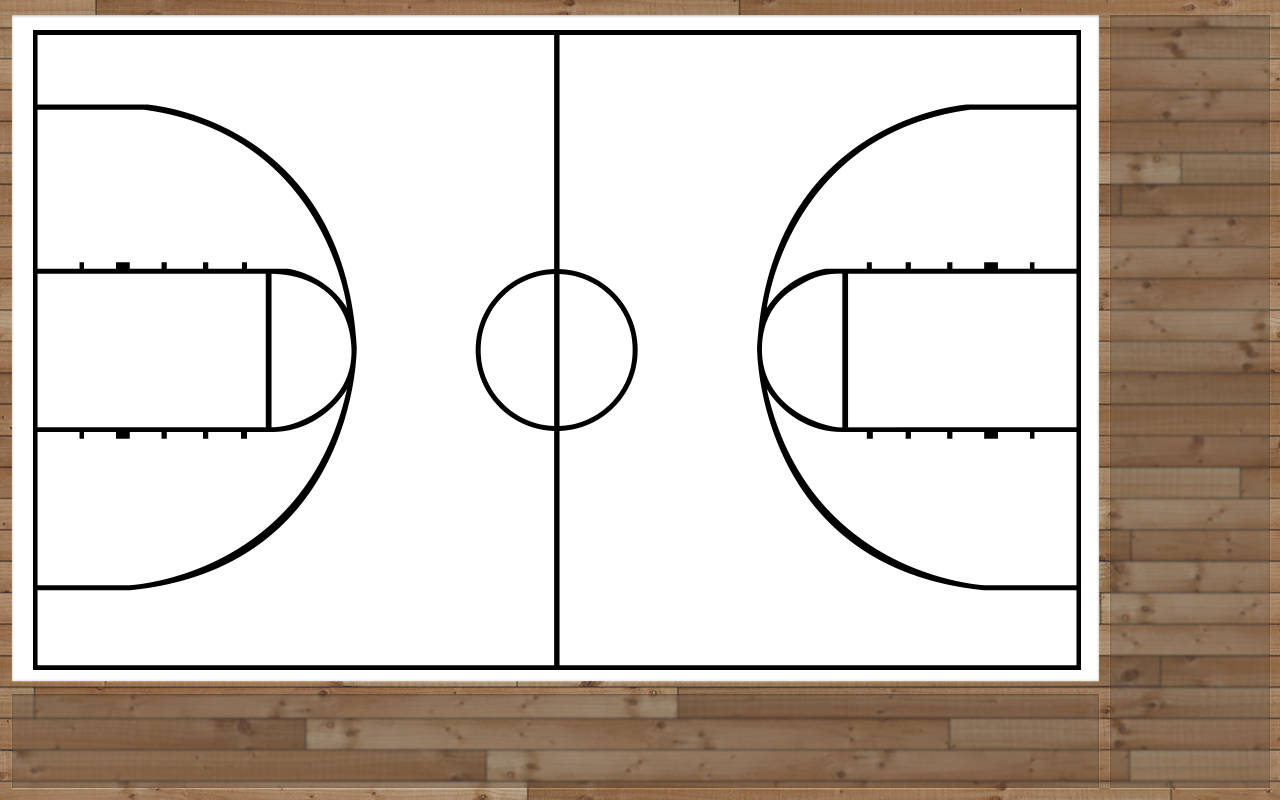
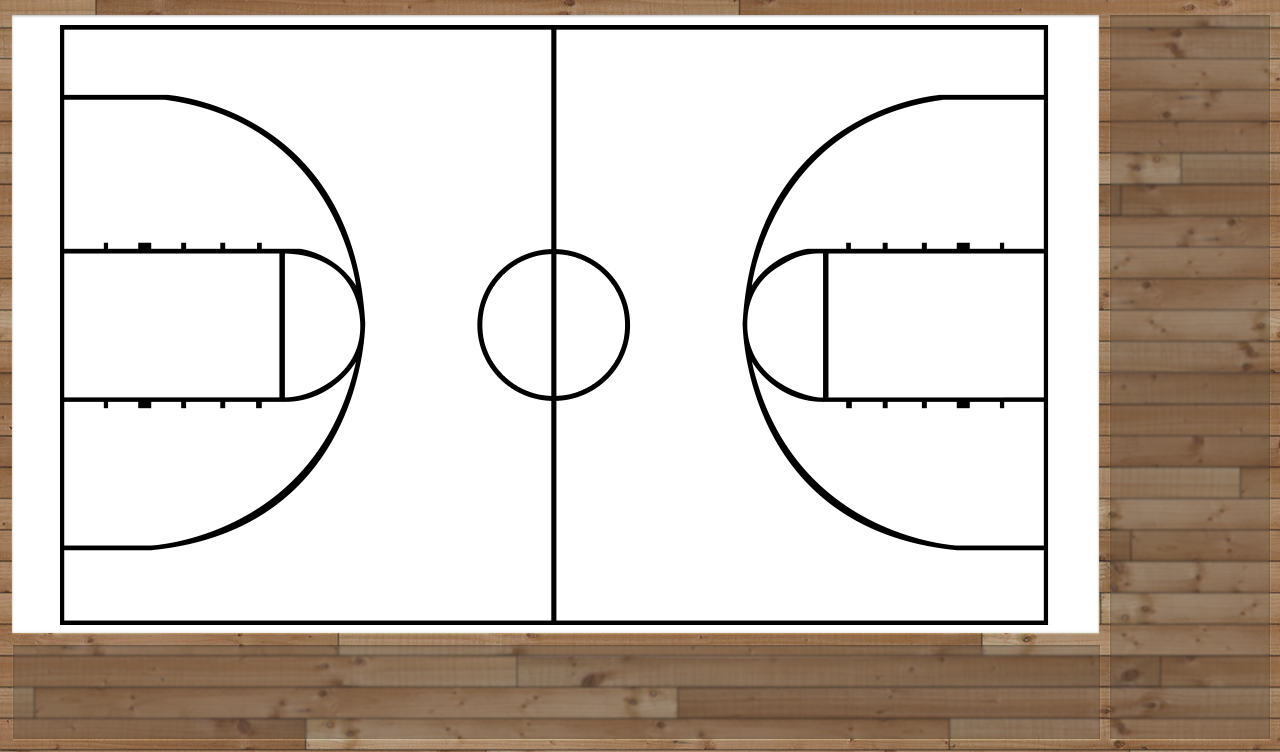
Resized App to fit Galaxy Note 10

Changed region(s): [[0.0, 0.0306, 1.0, 1.0], [0.9375, 0.0918, 1.0, 0.1223], [0.9062, 0.1223, 0.9375, 0.1529]]

diff --git a/style.css b/style.css
@@ -15,13 +15,13 @@
 #container {
 	background: url('images/background.png');
 	width: 1280px;
-	height: 800px;
+	height: 752px;
 }
 
 /* Court canvas */
 
 #court {
-	margin-top: 15px;
+	margin-top: 11px;
 	margin-left: 12px;
 }
 
@@ -30,7 +30,7 @@
 #mover {
 	position: absolute;
 	margin-top: 15px;
-	margin-left: 12px;
+	margin-left: 11px;
 	width: 30px;
 	height: 30px;
 	background: url('images/mover.png');
@@ -43,7 +43,7 @@
 	margin-top: 15px;
 	margin-right: 9px;
 	width: 159px;
-	height: 770px;
+	height: 720px;
 }
 
 /* Options menu */
@@ -101,7 +101,7 @@
 	width: 272px;
 	height: 132px;
 	margin-left: 70px;
-	margin-top: 565px;
+	margin-top: 515px;
 }
 
 #balloon-info-help {
@@ -110,5 +110,5 @@
 	width: 272px;
 	height: 98px;
 	margin-left: 790px;
-	margin-top: 600px;
+	margin-top: 550px;
 }

diff --git a/index.html b/index.html
@@ -30,7 +30,7 @@
 
         <!-- Court Canvas -->
         <div id="mover" onclick="move()"></div>
-        <canvas id="court" width="1085px" height="663px" ></canvas>
+        <canvas id="court" width="1085px" height="618px"></canvas>
         <!-- /Court Canvas -->
 
         <!-- Buttons Menu -->
